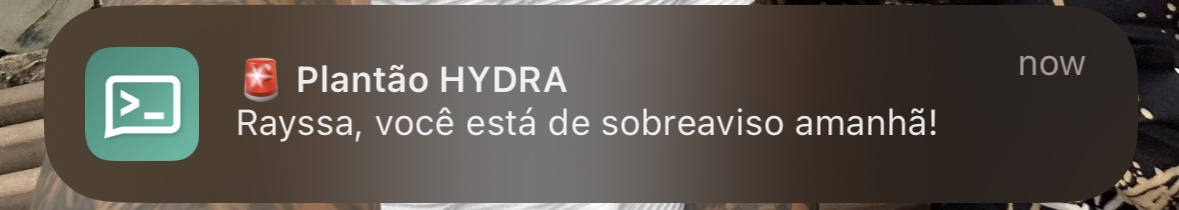
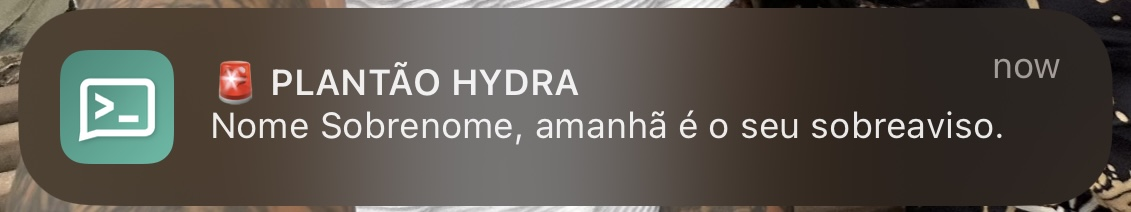
fix: fix notify message

diff --git a/internal/core/checker.go b/internal/core/checker.go
@@ -11,23 +11,25 @@ type Row struct {
 
 // if the cron job runs before noon, notify the person on duty today.
 // if the cron job runs after noon, notify the person on duty tomorrow.
-func WhoIsOnDuty(rows []Row) string {
+func WhoIsOnDuty(rows []Row) (string, string) {
 	loc, _ := time.LoadLocation("America/Sao_Paulo")
 	today := time.Now().In(loc)
 	
 	day := today
+	when := "hoje"
 
 	if time.Now().Hour() > 12 {
 		day = today.AddDate(0, 0, 1)
+		when = "amanhã"
 	}
 
 	for _, r := range rows {
 		if sameDay(r.Date, day) {
-			return r.Name
+			return r.Name, when
 		}
 	}
 
-	return ""
+	return "",""
 }
 
 func sameDay(current, expect time.Time) bool {

diff --git a/internal/notifier/payload.go b/internal/notifier/payload.go
@@ -15,13 +15,13 @@ type Payload struct {
 	Tags     []string `json:"Tags"`
 }
 
-func BuildPayload(name string) Payload {
+func BuildPayload(name, when string) Payload {
 	tag := []string{"rotating_light"}
 	title := "PLANTÃO HYDRA"
 	message := "Não há ninguém escalado para amanhã. Atualizar planilha!"
 
 	if name != "" {
-		message = name + ", amanhã é o seu sobreaviso."
+		message = name + ", " + when + " é o seu sobreaviso."
 	}
 
 	return Payload{

diff --git a/cmd/bot/main.go b/cmd/bot/main.go
@@ -60,13 +60,13 @@ func run(
 		return err
 	}
 
-	name := core.WhoIsOnDuty(rows)
+	name, when := core.WhoIsOnDuty(rows)
 
 	if name != "" {
 		lg.Info(fmt.Sprintf("user %v IS on duty tomorrow → sending notification", name))
 	}
 
-	payload := notifier.BuildPayload(name)
+	payload := notifier.BuildPayload(name, when)
 
 	err = apiClient.Send(ctx, payload, name)
 	if err != nil {
